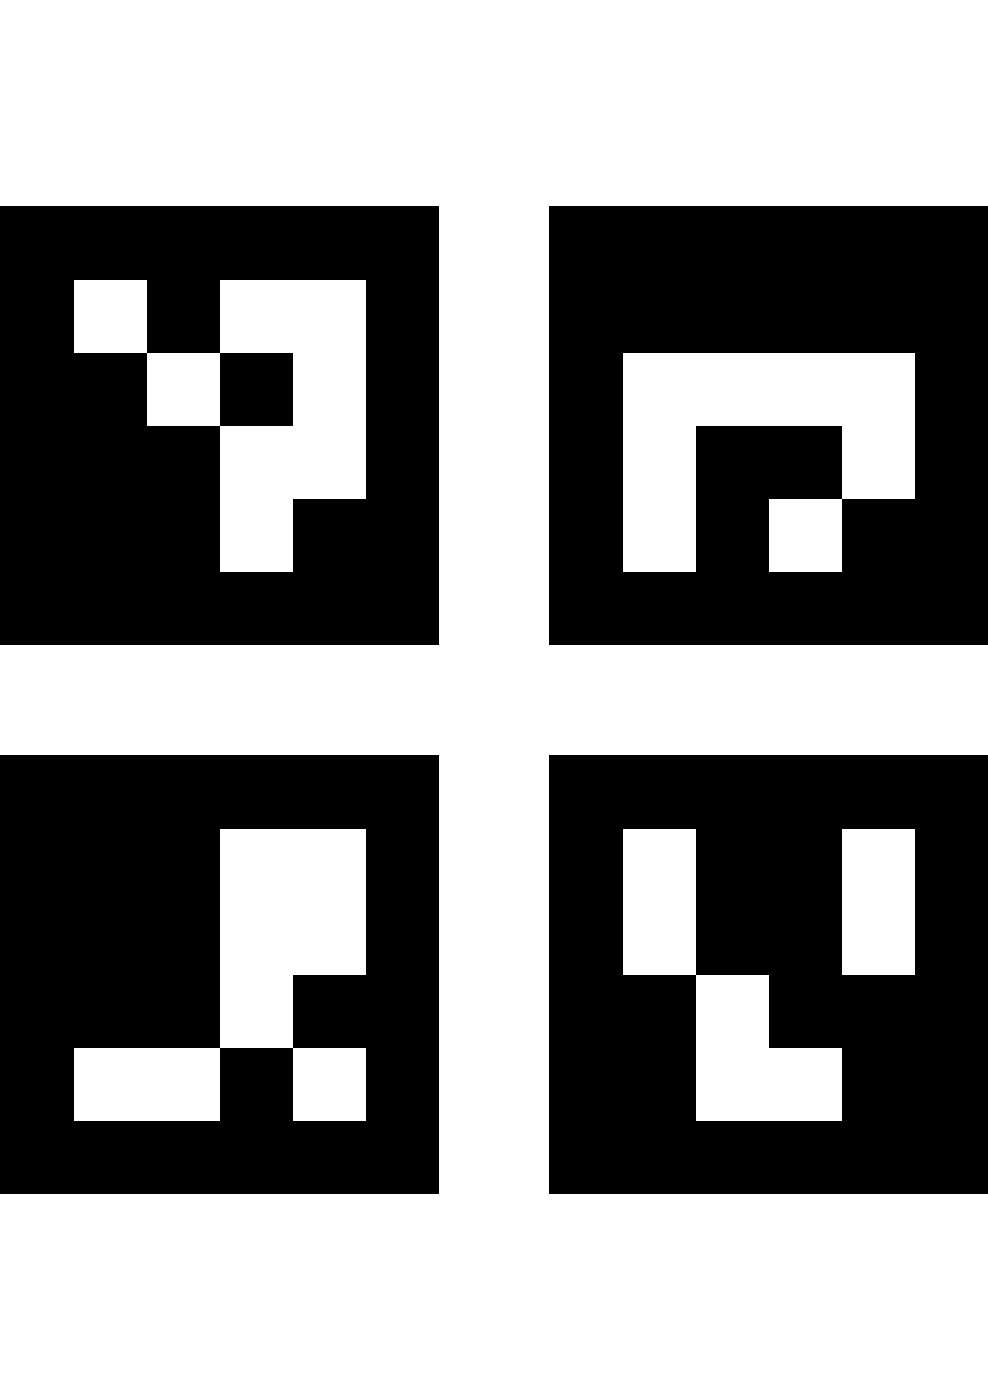
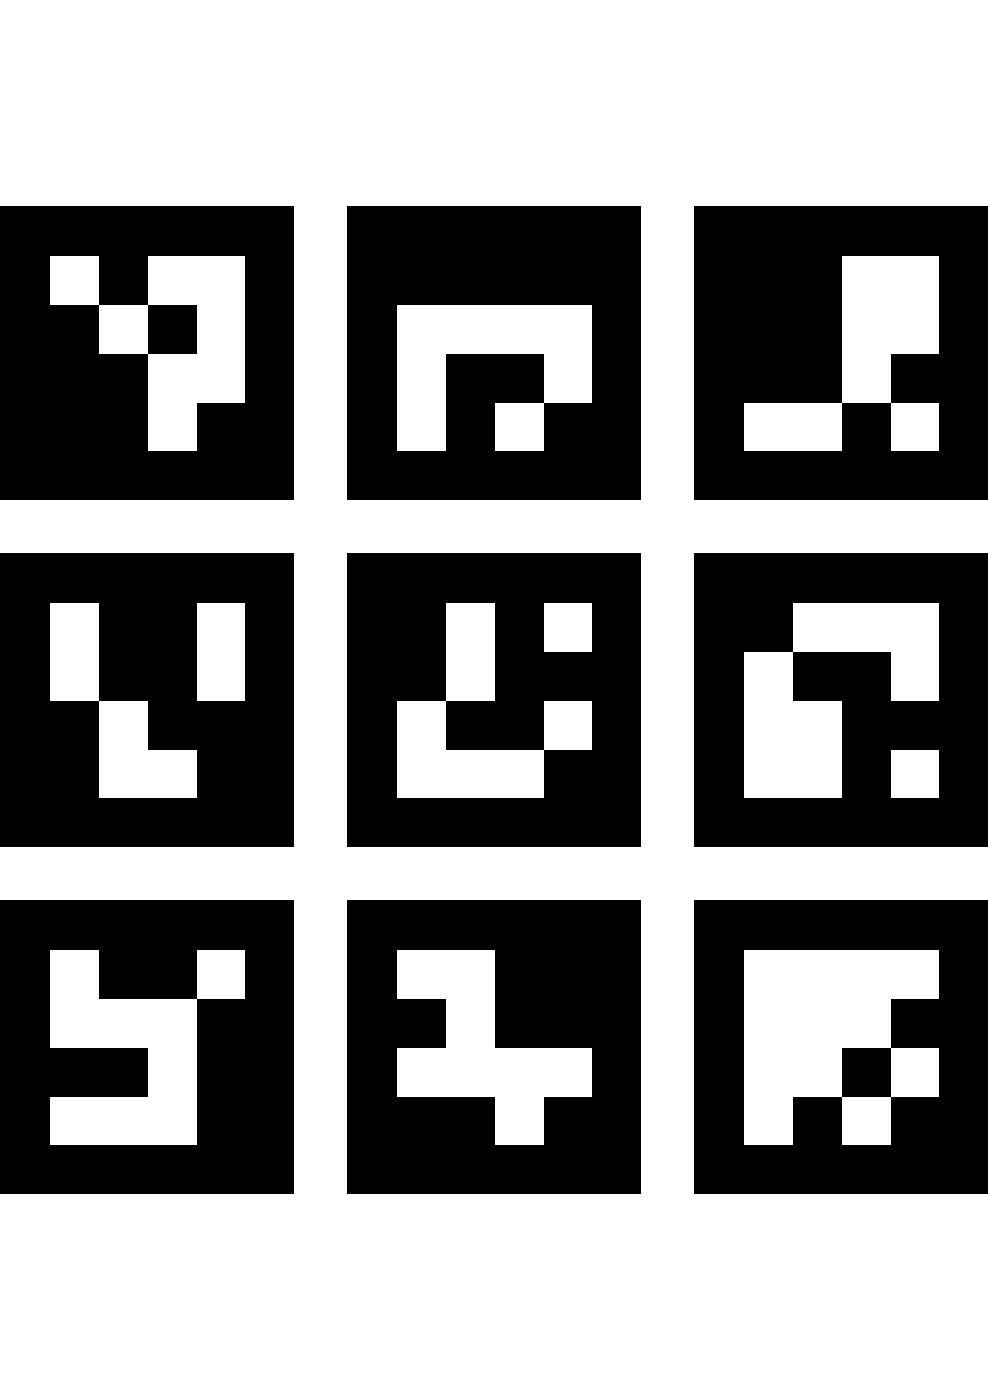
preparation for test

Changed region(s): [[0.0, 0.1229, 1.0, 0.86]]

diff --git a/src/asv_wave_sim/asv_wave_sim_gazebo/scripts/plot_kalman.m b/src/asv_wave_sim/asv_wave_sim_gazebo/scripts/plot_kalman.m
@@ -12,13 +12,15 @@ clear; clc;
 % v_roll = importdata("log_roll.txt");
 % dist_test = importdata("dist_test_no_movement.txt");
 % xy_cor = importdata("xy_cor_pic.txt");
-dist_motion = importdata("dist_motion_no_delay.txt")
+% dist_motion = importdata("dist_motion_no_delay.txt")
+ori_motion = importdata("log_v.txt")
 x = importdata("log_x.txt");
 %x(:,1) = [];
 %v(:,1) = [];
 %x(1:10,:) = [];
 %v(1,:) = [];
 %dist_test(1:50,:)=[]
+ori_motion(800:1300,:)=[]
 
 % figure(1)
 % subplot(2,3,1)
@@ -136,10 +138,23 @@ x = importdata("log_x.txt");
 % plot(xy_cor(:,3)-xy_cor(1,3), xy_cor(:,4)) %x_pos drone
 % plot(xy_cor(:,3)-xy_cor(1,3), xy_cor(:,5)) %y_pos drone
 
-figure(13)
+% figure(13)
+% hold on;
+% plot(dist_motion(:,3)-dist_motion(1,3), dist_motion(:,1)+0.21) %Distance aruco marker
+% plot(dist_motion(:,3)-dist_motion(1,3), dist_motion(:,2)-dist_motion(:,4)) %Ground truth
+
+for i=1:length(ori_motion)
+    if ori_motion(i,1) < 0
+        ori_motion(i,1)=ori_motion(i,1)+2*pi;
+    end
+end
+
+figure(14)
 hold on;
-plot(dist_motion(:,3)-dist_motion(1,3), dist_motion(:,1)+0.21) %Distance aruco marker
-plot(dist_motion(:,3)-dist_motion(1,3), dist_motion(:,2)-dist_motion(:,4)) %Ground truth
+%plot(ori_motion(:,3)-ori_motion(1,3), ori_motion(:,2)) %pitch est
+plot(ori_motion(:,3)-ori_motion(1,3), ori_motion(:,1)-3.1) %Roll est
+plot(ori_motion(:,3)-ori_motion(1,3), ori_motion(:,5)) %Roll gt
+%plot(ori_motion(:,3)-ori_motion(1,3), ori_motion(:,4)) %pitch gt
 %%
 avg_dist_pos = mean(abs(v_pos_dist(1:800,3)-5))
 avg_dist_vel = mean(abs(v_vel_dist(1:800,3)-5))

diff --git a/src/asv_wave_sim/asv_wave_sim_gazebo/scripts/lowpass_filter_test.py b/src/asv_wave_sim/asv_wave_sim_gazebo/scripts/lowpass_filter_test.py
@@ -7,20 +7,19 @@ def filter_sbs():
 
     T = 60.5         # value taken in seconds
     n = int(60.5 * 12.4) # indicates total samples
-    t = np.linspace(0, T, 752, endpoint=False)
+    t = np.linspace(0, T, 1300, endpoint=False)
 
     #data = np.sin(1.2*2*np.pi*t) + 1.5*np.cos(9*2*np.pi*t) + 0.5*np.sin(12.0*2*np.pi*t)
     gt = []
     data = []
     ship = []
-    with open('log_pitch.txt') as f:
+    with open('log_v.txt') as f:
         csvreader = csv.reader(f)
         for row in csvreader:
             #gt.append(float(row[1]))
             #data.append(-float(row[3])-0.015)
-            gt.append(float(row[0])) #roll
-            data.append(float(row[2])-3.1415) #roll
-            ship.append(float(row[7])/20)
+            gt.append(float(row[3])) #roll
+            data.append(float(row[1])) #roll
 
     data = np.array(data)
     b,a = signal.butter(2, 0.35, fs=10)
@@ -30,11 +29,11 @@ def filter_sbs():
     result = zeros(data.size)
     for i, x in enumerate(data):
         result[i], z = signal.lfilter(b, a, [x], zi=z)
-    return result,gt,data,ship,t
+    return result,gt,data,t
 
 if __name__ == '__main__':
 
-    result,gt,data, ship,t = filter_sbs()
+    result,gt,data,t = filter_sbs()
     #plt.plot(t,data, label="Raw data")
     plt.plot(t,result, label = "Filtered pitch est")
     plt.plot(t,gt, label = "Ground truth")

diff --git a/src/asv_wave_sim/asv_wave_sim_gazebo/scripts/pose_est_board_3d.py b/src/asv_wave_sim/asv_wave_sim_gazebo/scripts/pose_est_board_3d.py
@@ -27,8 +27,8 @@ class Aruco_pose():
 
             #Works for x,y correction
             camera_calibration_parameters_filename = 'calibration_chessboard_gazebo.yaml'
-            aruco_marker_side_length = 0.455#0.66
-            aruco_marker_space = 0.09#0.066
+            aruco_marker_side_length = 0.58#0.455
+            aruco_marker_space = 0.11#0.09
 
             self.board = cv2.aruco.GridBoard_create(2, 2, aruco_marker_side_length, aruco_marker_space, self.arucoDict) #Gazebo
         else:
@@ -175,9 +175,9 @@ def main():
     
         ret, frame = cap.read()
         aru.calc_euler(frame)
-        cv2.imshow('frame', frame)
-        if cv2.waitKey(1) & 0xFF == ord('q'):
-            break
+        #cv2.imshow('frame', frame)
+        #if cv2.waitKey(1) & 0xFF == ord('q'):
+            #break
 
     
     # Close down the video stream

diff --git a/Code/generate_aruco.py b/Code/generate_aruco.py
@@ -3,9 +3,9 @@ import cv2.aruco as aruco
 
 # Create gridboard, which is a set of Aruco markers
 gridboard = aruco.GridBoard_create(
-        markersX=2, 
-        markersY=2, 
-        markerLength=0.04, 
+        markersX=3, 
+        markersY=3, 
+        markerLength=0.055, 
         markerSeparation=0.01, 
         dictionary=aruco.Dictionary_get(cv2.aruco.DICT_4X4_50))
 
